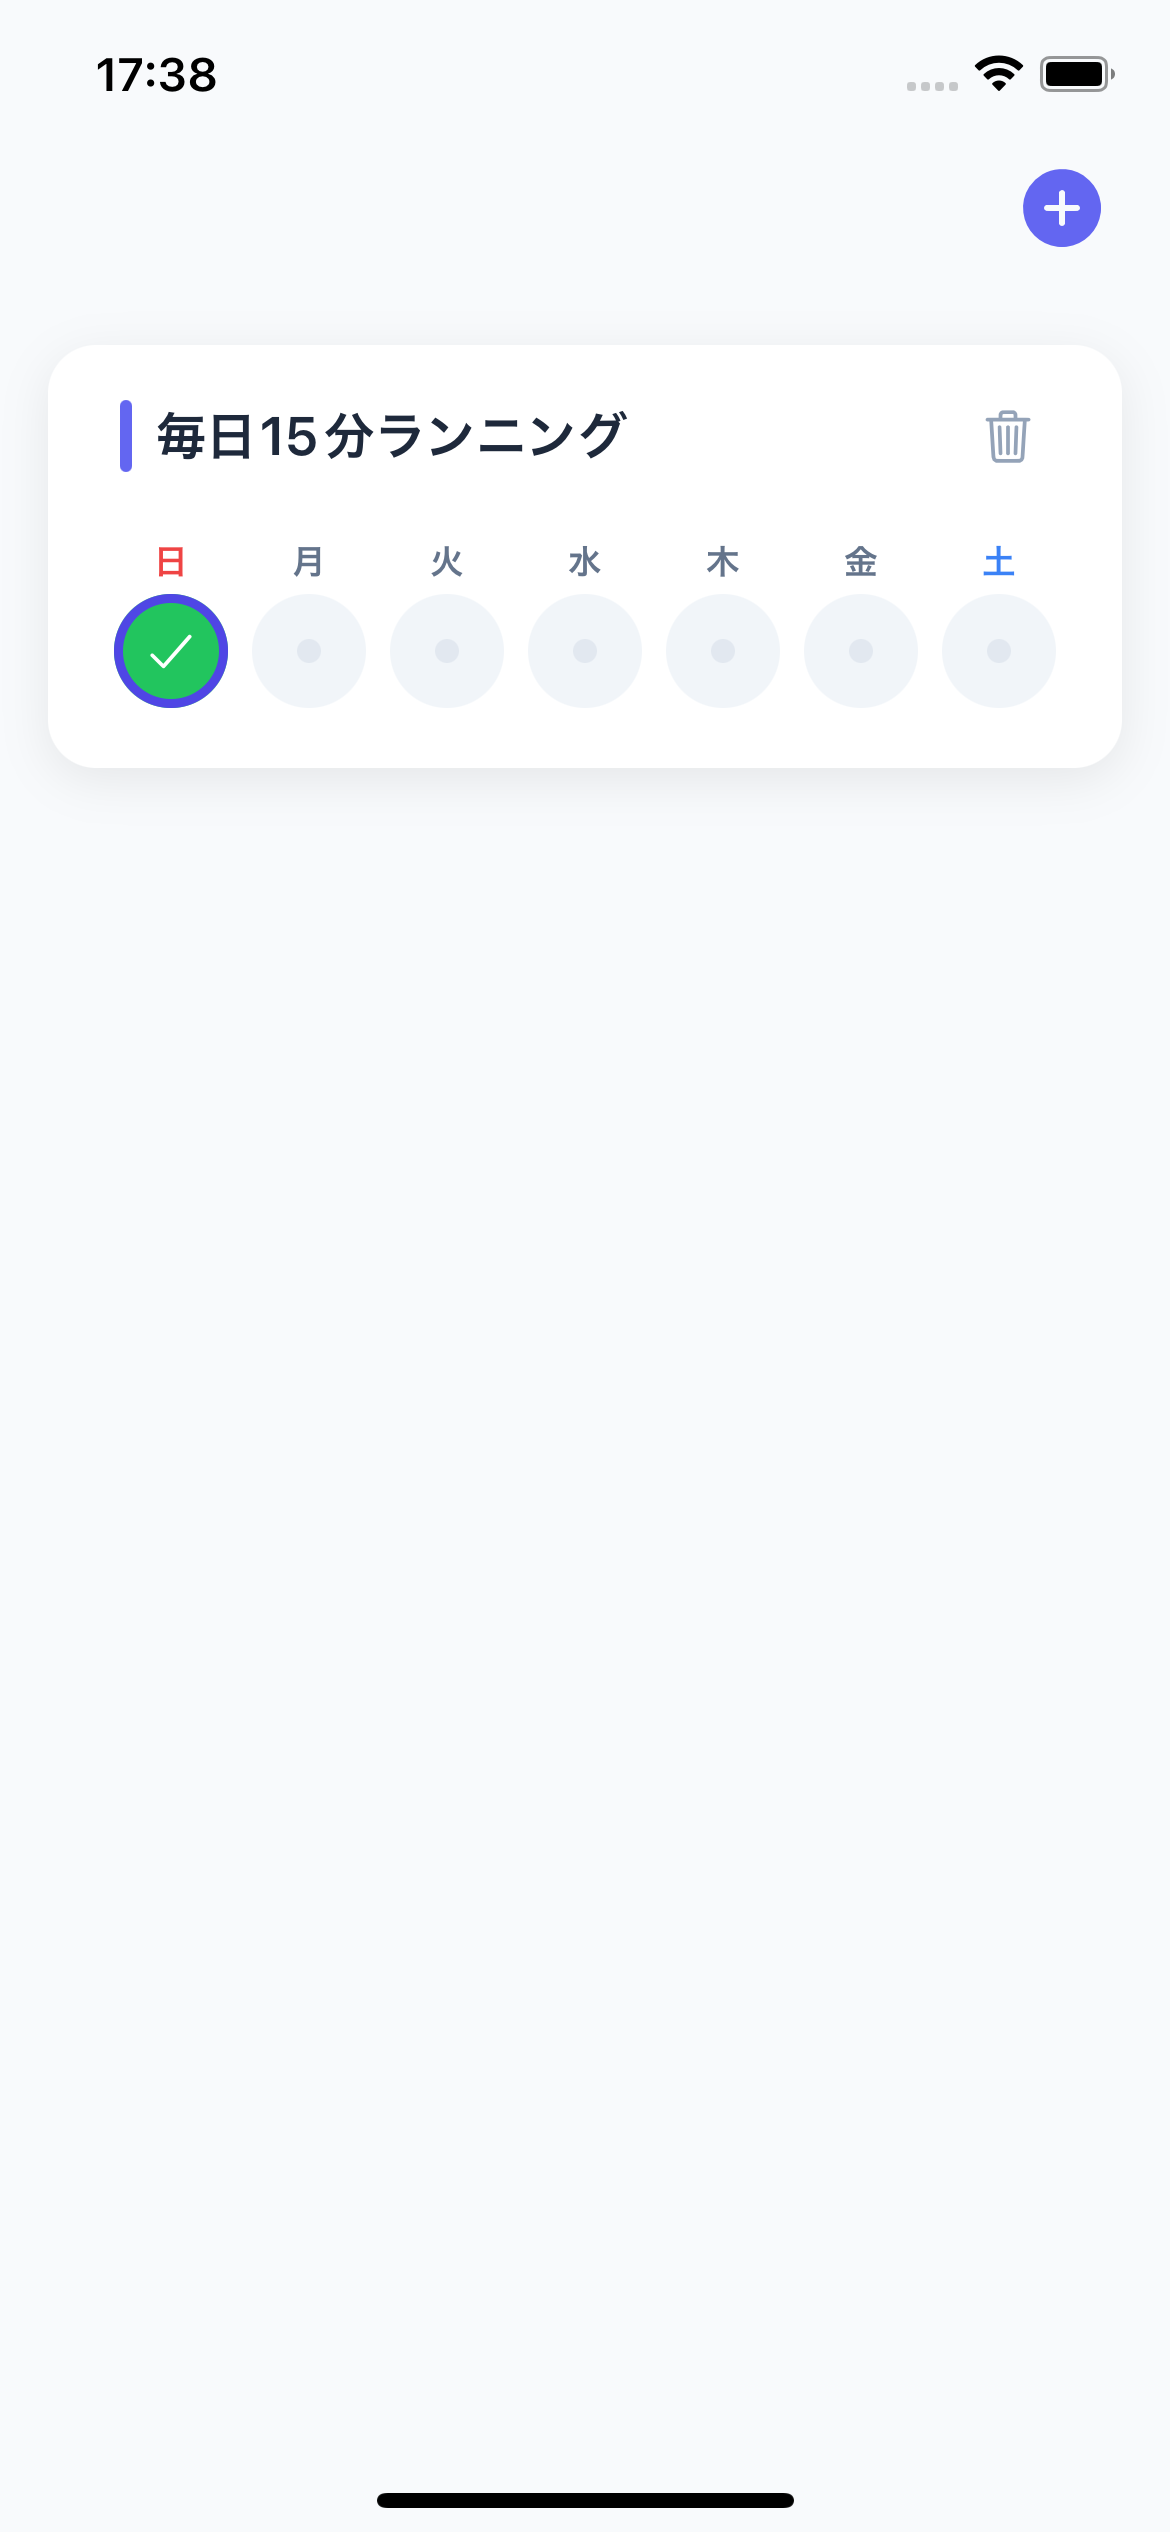
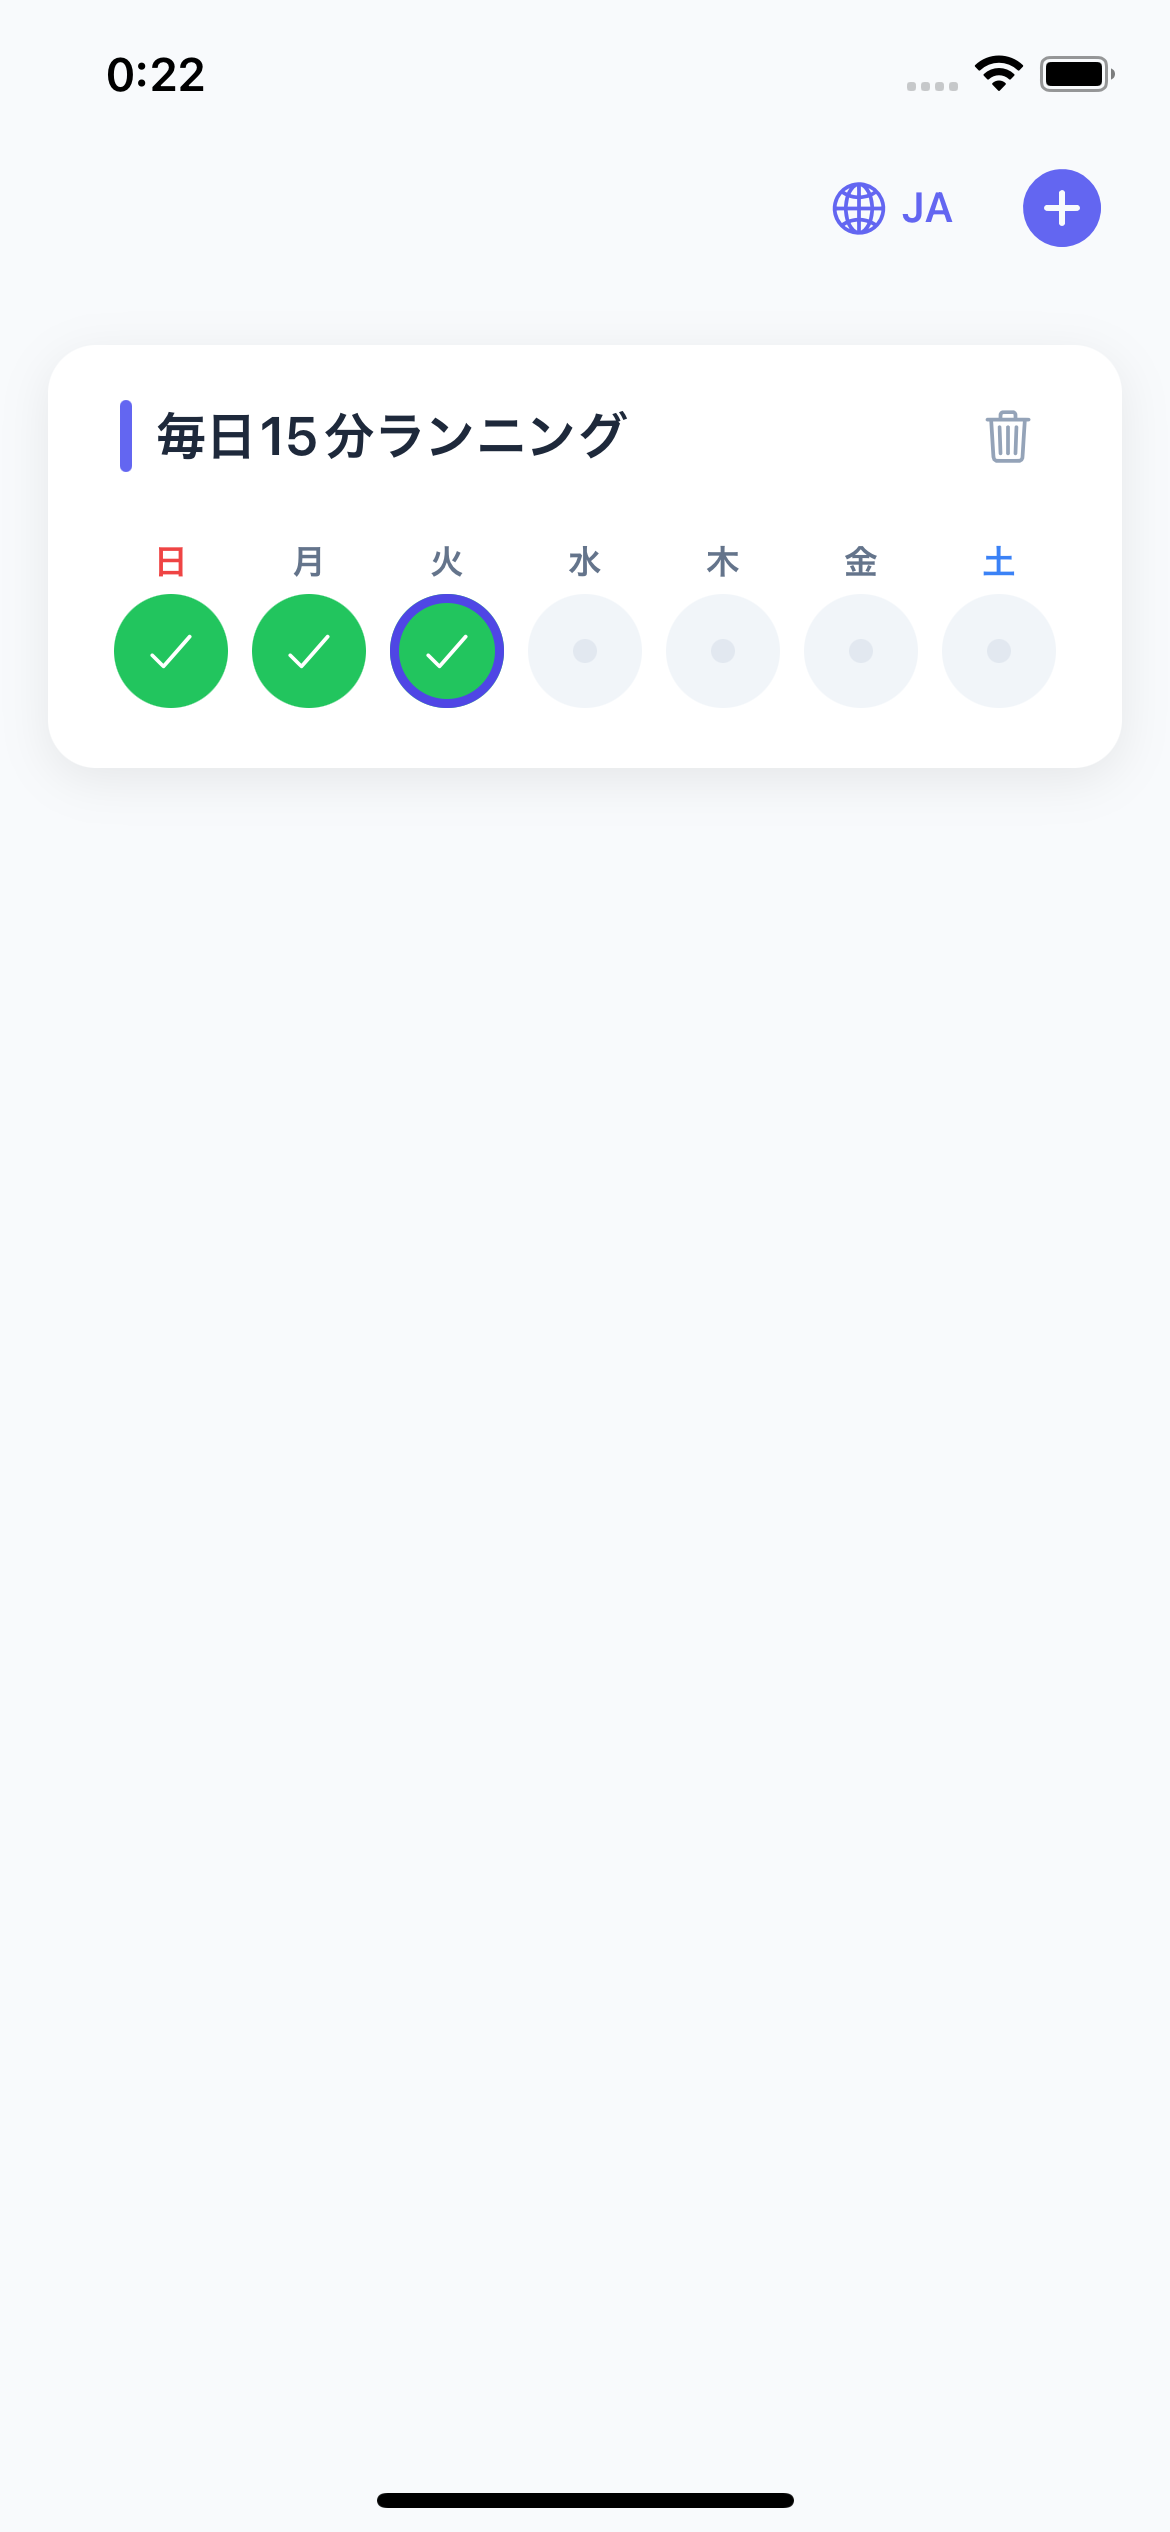
chore: 言語切替に伴うドキュメントの更新

Changed region(s): [[0.0923, 0.2184, 0.4308, 0.2808], [0.0923, 0.0, 0.1846, 0.0624], [0.7077, 0.0624, 0.8, 0.0936]]

diff --git a/APP_GUIDE.md b/APP_GUIDE.md
@@ -42,6 +42,7 @@ HabitMasterは、毎日の習慣化をサポートするシンプルなアプリ
 - **ワンタップ記録**: タップするだけで達成を記録
 - **見える化**: 週間・月間で達成状況を確認
 - **リマインダー**: 曜日ごとに通知を設定可能
+- **多言語対応**: 日本語・英語を切り替え可能
 
 ---
 
@@ -63,12 +64,13 @@ HabitMasterは、毎日の習慣化をサポートするシンプルなアプリ
 | 習慣の追加 | 右上の「+」ボタンをタップ |
 | 習慣の編集 | 習慣カードをタップ |
 | 習慣の削除 | 習慣カード右側のゴミ箱アイコンをタップ |
+| 言語切替 | 右上の地球アイコン（JA/EN）をタップ |
 
 **画面の見方:**
 
 ```
 ┌─────────────────────────────────┐
-│                           [+]  │  ← 習慣追加ボタン
+│                      [JA] [+]  │  ← 言語切替・習慣追加ボタン
 ├─────────────────────────────────┤
 │ ┌─────────────────────────────┐ │
 │ │ | 10kg ダイエットする！  [🗑] │ │  ← 習慣名と削除ボタン
@@ -304,6 +306,14 @@ A: 以下を確認してください：
 ### Q: 習慣を削除したらデータは戻せますか？
 
 A: いいえ、削除したデータは復元できません。削除時に確認ダイアログが表示されますので、よく確認してから削除してください。
+
+### Q: 言語を切り替えるにはどうすればいいですか？
+
+A: ホーム画面の右上にある地球アイコン（JA/EN）をタップすると、日本語と英語を切り替えられます。設定はアプリを閉じても保持されます。
+
+### Q: アプリの言語は端末の設定に連動しますか？
+
+A: 初回起動時は端末の言語設定に連動します（日本語または英語）。その後は手動で切り替えた言語が優先されます。
 
 ---
 

diff --git a/README.md b/README.md
@@ -11,6 +11,7 @@
 - **週間ビュー**: ホーム画面で今週の達成状況を一目で確認
 - **カレンダービュー**: 過去4週間分の記録を確認・編集可能
 - **通知機能**: 曜日ごとにリマインダーを設定可能
+- **多言語対応**: 日本語・英語に対応（端末設定に連動、手動切替可能）
 
 ## 技術スタック
 
@@ -19,6 +20,7 @@
 - Firebase (Authentication, Firestore)
 - expo-router
 - expo-notifications
+- i18next / react-i18next（国際化）
 
 ## セットアップ
 
